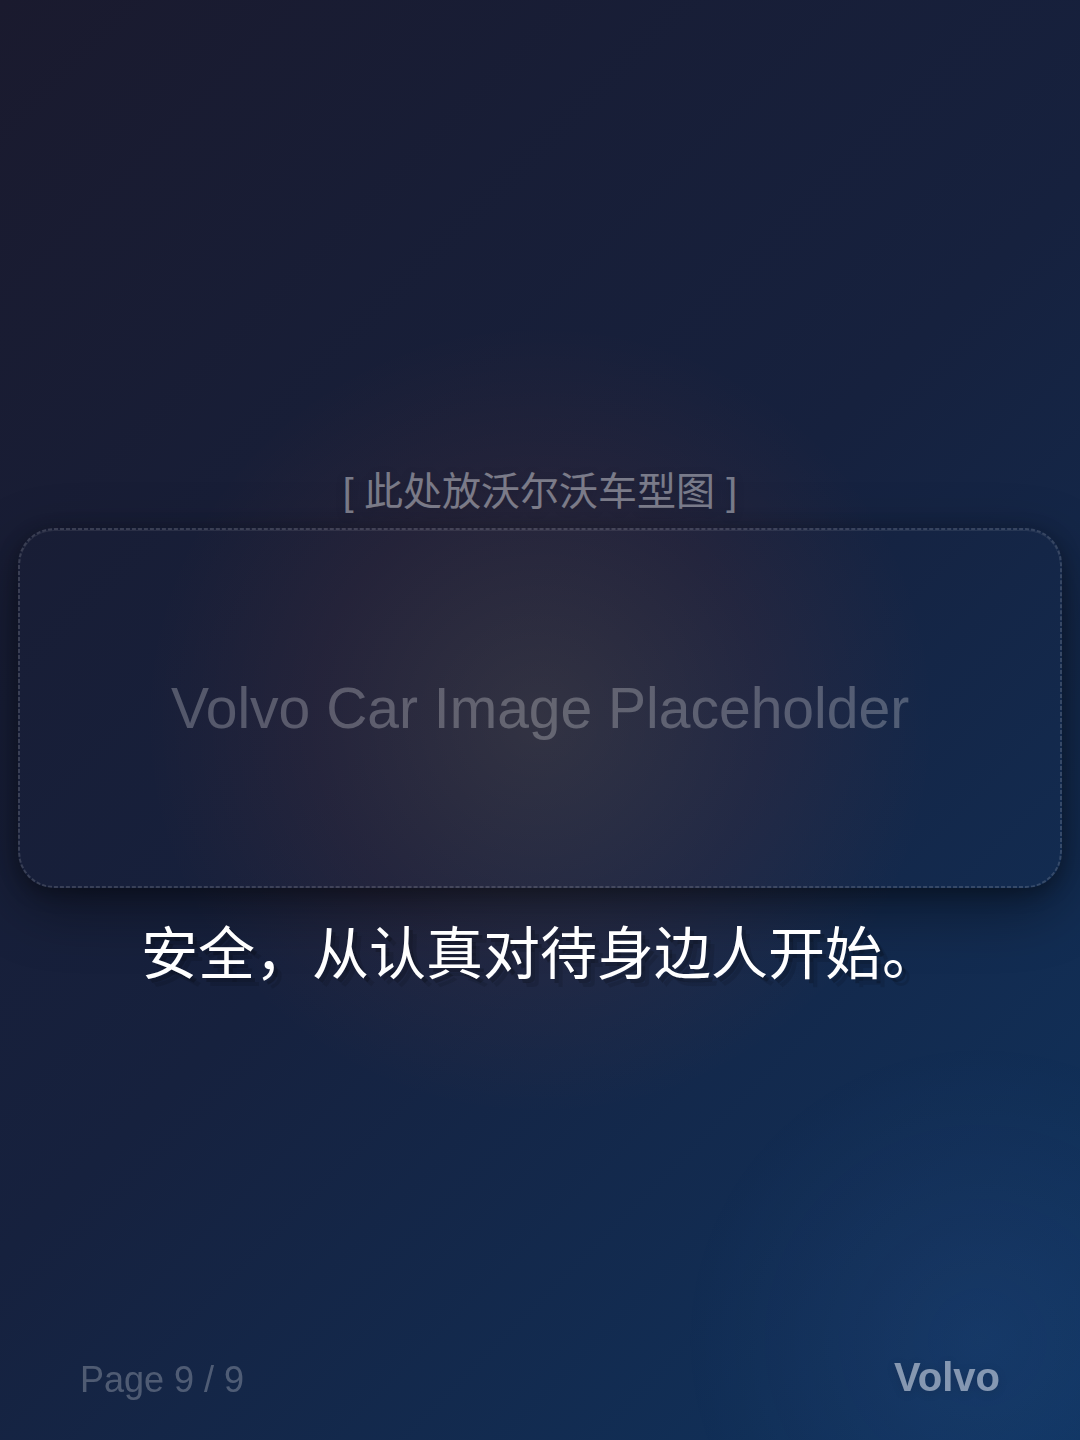
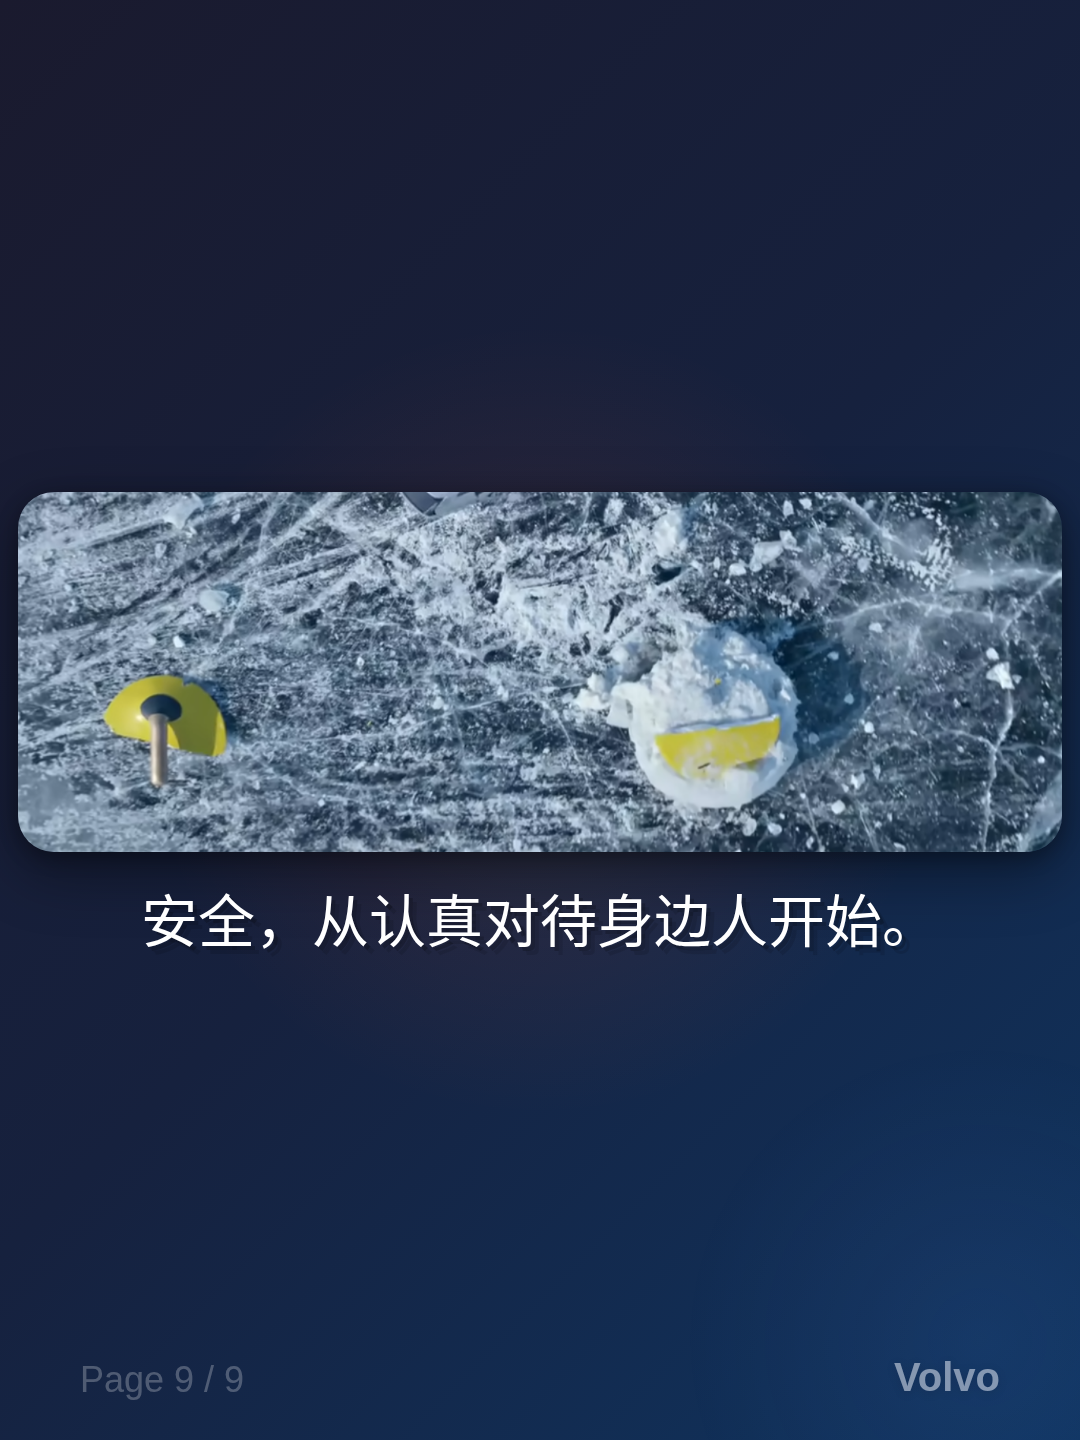
feat: 替换slide-09沃尔沃车型图

Changed region(s): [[0.0, 0.3125, 1.0, 0.6875], [0.1222, 0.625, 0.2444, 0.6875]]

diff --git a/wife-anger-cycle-3d/slide-09-3d.html b/wife-anger-cycle-3d/slide-09-3d.html
@@ -7,10 +7,7 @@ body::before{content:'';position:absolute;top:50%;left:50%;transform:translate(-
 body::after{content:'';position:absolute;bottom:-200px;right:-200px;width:600px;height:600px;background:radial-gradient(ellipse,rgba(100,150,255,.08) 0%,transparent 70%);pointer-events:none}
 </style></head><body style="padding:40px 48px 30px 48px">
   <div style="text-align:center;position:relative;z-index:1">
-    <p style="font-size:39px;opacity:.4;margin-bottom:12px;text-shadow:0 2px 8px rgba(0,0,0,.3)">[ 此处放沃尔沃车型图 ]</p>
-    <div style="width:1044px;height:360px;border:2px dashed rgba(255,255,255,.15);border-radius:36px;display:flex;align-items:center;justify-content:center;margin:0 auto;box-shadow:0 20px 60px rgba(0,0,0,.4),0 5px 20px rgba(0,0,0,.3),inset 0 1px 0 rgba(255,255,255,.08)">
-      <p style="font-size:57px;opacity:.25">Volvo Car Image Placeholder</p>
-    </div>
+    <img src="volvo-car.png" style="width:1044px;height:360px;object-fit:cover;border-radius:36px;margin:0 auto;box-shadow:0 20px 60px rgba(0,0,0,.4),0 5px 20px rgba(0,0,0,.3)" />
   </div>
   <p style="margin-top:20px;font-size:57px;font-weight:300;text-shadow:4px 4px 0 rgba(0,0,0,.2),8px 8px 0 rgba(0,0,0,.1);position:relative;z-index:1">安全，从认真对待身边人开始。</p>
   <p style="position:fixed;bottom:40px;right:80px;font-size:40px;font-weight:700;opacity:.5;text-shadow:0 2px 10px rgba(0,0,0,.3)">Volvo</p>
